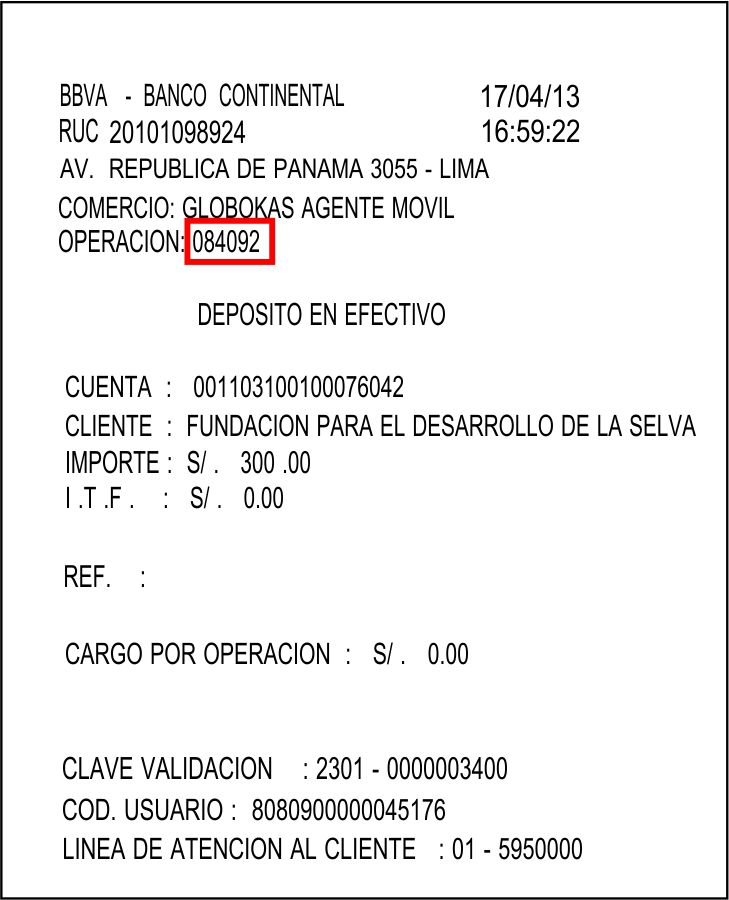
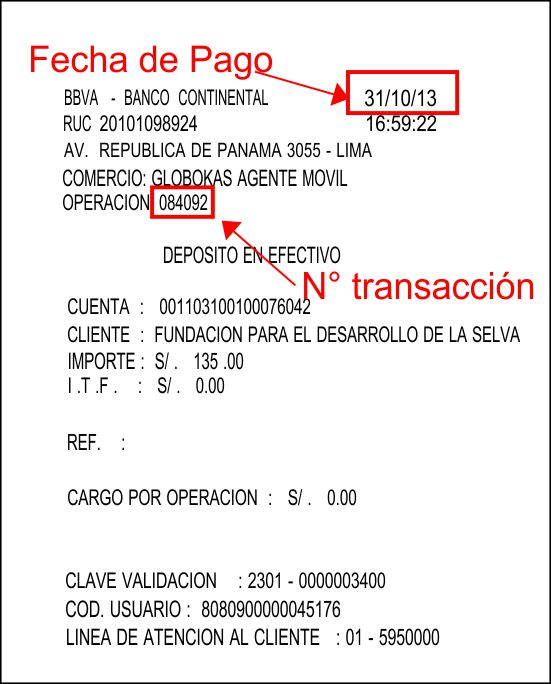
casi terminado

diff --git a/assets/js/inscripcion/inscripcion.js b/assets/js/inscripcion/inscripcion.js
@@ -1,7 +1,8 @@
 !function ($) {
     $(function(){
         $("#iddepartamento").val(0);
-        $("#fecha_deposito").datepicker({dateFormat: 'dd-mm-yy',changeMonth:true,changeYear:true,minDate: new Date('2013','04','01'),maxDate: new Date('2013','07','12')});
+        $("#fecha_deposito").datepicker({dateFormat: 'dd-mm-yy',changeMonth:true,changeYear:true,minDate: new Date('2013','04','01'),
+            maxDate: new Date('2013','07','12'),onSelect: function(date) {$("#idtipo_inscripcion").trigger('change')}});
         $("#id_institucion_group, #loadInstitucion, #loadDni, #loadEmail, #loadNro_operacion, #imgventanilla, #imgcejero_automatico, #imgagentebbva").hide();
         $("#dni").solonumeros().blur(function(){
             if($(this).val().length==8){
@@ -135,7 +136,33 @@
                 $("#id_institucion_group").hide();
             }
         });
-    
+        
+        $("#idtipo_inscripcion").change(function(){
+            var fecha_deposito = $("#fecha_deposito").val();
+            var idtipo_inscripcion = $("#idtipo_inscripcion").val();
+            var monto = "";
+            if($.trim(fecha_deposito)!="" && idtipo_inscripcion!=""){
+                var fecha=fecha_deposito.split("-");
+                if(idtipo_inscripcion=="1"){
+                    switch (fecha[1]){
+                        case '05':monto="95.00" ;break;
+                        case '06':monto="100.00" ;break;
+                        case '07':monto="115.00" ;break;
+                        case '08':monto="125.00" ;break;
+                    }
+                }else{
+                    switch (fecha[1]){
+                        case '05':monto="100.00" ;break;
+                        case '06':monto="115.00" ;break;
+                        case '07':monto="125.00" ;break;
+                        case '08':monto="135.00" ;break;
+                    }
+                }
+            }
+            $("#monto").val(monto);
+        });
+        $("#idtipo_inscripcion").trigger('change');
+        
         $("#registrar").click(function(){
             var bval = true;  
             if($("#loadDni").css('display')=='none'){
@@ -180,7 +207,6 @@
             bval = bval && $( "#tipo_pago" ).combo();
             bval = bval && $( "#fecha_deposito" ).required();
             bval = bval && $( "#nro_operacion" ).required();
-            bval = bval && $( "#monto" ).combo();
             if(bval && $("#loadDni").html()!='Correcto'){
                 bval=false;
                 $("#dni").parents('div[class*=control-group]').removeClass('success').addClass('error');

diff --git a/assets/css/main.css b/assets/css/main.css
@@ -87,6 +87,9 @@ footer{
     width: 88%;
     margin: 0 auto;
 }
+#imgpago{
+    margin-top: 500px;
+}
 .carousel .container {
     position: relative;
     z-index: 9;
@@ -173,6 +176,9 @@ footer{
     }
     .page_slide{
         padding:  5px 10px;
+    }
+    #imgpago{
+        margin-top: 0;
     }
 }
 

diff --git a/application/controllers/inscripcion.php b/application/controllers/inscripcion.php
@@ -114,50 +114,47 @@ class inscripcion extends Main_Controller {
     }
     
     public function guardar(){
-        if(isset($_POST)){
+        if(isset($_POST['email'])){
+            $idmd5 = $_POST['email'].uniqid();
+            $idmd5 = md5( md5( md5($idmd5)));
+            array_push($_POST, $idmd5);
+//            echo '<pre>';print_r($_POST);exit;
             $resultado = $this->inscripcion_model->insertInscripcion($_POST);
-//            print_r($resultado);exit;
-            if($resultado['estado']==1){
-                $inscripcion = $resultado['data'];
-                if($inscripcion->num_rows()>0){
-                    foreach ($inscripcion->result_array() as $f) {
-                        //Obtenemos los datos
-                        $idmd5=$f['idmd5'];
-                        $email=$f['email'];
-                        $usuario=$f['nombres'].' '.$f['apellidos'];
-                        $cuerpo = "<p>El usuario «{$usuario}» del CONEISC (probablemente tú mismo)<br/>
-                                        ha registrado esta dirección e-mail como suya.<br/><br/>
+            if($resultado['estado']){
+                //Obtenemos los datos
+                $email=$_POST['email'];
+                $usuario=$_POST['nombres'].' '.$_POST['apellidos'];
+                $cuerpo = "<p>El usuario «{$usuario}» del CONEISC (probablemente tú mismo)<br/>
+                                ha registrado esta dirección e-mail como suya.<br/><br/>
 
-                                        Para confirmar su registro y que esta dirección e-mail <br/>
-                                        está realmente asociada a esta cuenta, sigue el siguiente enlace:<br/><br/>
+                                Para confirmar su registro y que esta dirección e-mail <br/>
+                                está realmente asociada a esta cuenta, sigue el siguiente enlace:<br/><br/>
 
-                                        <a href='http://{$_SERVER['HTTP_HOST']}/inscripcion/confirmarEmail/$idmd5' target='_blank'>http://{$_SERVER['HTTP_HOST']}/inscripcion/confirmarEmail/$idmd5</a>  <br/><br/>
-                                        <br/>   
-                                        Atentamente.
-                                        <br/>
-                                        XXI CONEISC
-                                        <br/>
-                                        Tarapoto 2013 
-                                    </p>";
-                        //Cargamos la librería
-                        $this->load->library('email');
-                        //Configuramos 
-                        $config['useragent'] = 'CONEISC';
-                        $config['mailtype'] = 'html';
-                        $this->email->initialize($config);
-                        //llenamos datos
-                        $this->email->from('WWW.CONEISC.PE', 'CONEISC');
-                        $this->email->to($email);
-                        $this->email->subject('Confirmación de la dirección de e-mail registrada en Coneisc.pe');
-                        $this->email->message($cuerpo);
-                        if($this->email->send()){
-                            $this->mensaje("Registro Coneisc","Por favor revise su correo eléctronico para confirmar su registro");
-                        }else if($this->email->send()){
-                            $this->mensaje("Registro Coneisc","Por favor revise su correo eléctronico para confirmar su registro");
-                        }else{
-                            $this->mensaje("Error Envio de Email","Por favor comuníquese con los organizadores informando de su error.");
-                        }
-                    }
+                                <a href='http://{$_SERVER['HTTP_HOST']}/inscripcion/confirmarEmail/$idmd5' target='_blank'>http://{$_SERVER['HTTP_HOST']}/inscripcion/confirmarEmail/$idmd5</a>  <br/><br/>
+                                <br/>   
+                                Atentamente.
+                                <br/>
+                                XXI CONEISC
+                                <br/>
+                                Tarapoto 2013 
+                            </p>";
+                //Cargamos la librería
+                $this->load->library('email');
+                //Configuramos 
+                $config['useragent'] = 'CONEISC';
+                $config['mailtype'] = 'html';
+                $this->email->initialize($config);
+                //llenamos datos
+                $this->email->from('WWW.CONEISC.PE', 'CONEISC');
+                $this->email->to($email);
+                $this->email->subject('Confirmación de la dirección de e-mail registrada en Coneisc.pe');
+                $this->email->message($cuerpo);
+                if($this->email->send()){
+                    $this->mensaje("Registro Coneisc","Por favor revise su correo eléctronico para confirmar su registro");
+                }else if($this->email->send()){
+                    $this->mensaje("Registro Coneisc","Por favor revise su correo eléctronico para confirmar su registro");
+                }else{
+                    $this->mensaje("Error Envio de Email","Por favor comuníquese con los organizadores informando de su error.");
                 }
             }else{
                 $this->mensaje("Error de Registro",$resultado['msg']);

diff --git a/application/views/web/inscripcion/nuevo.php b/application/views/web/inscripcion/nuevo.php
@@ -136,22 +136,13 @@
                                 <div class="control-group">
                                     <label for="nro_operacion" class="control-label">N° Transacción:</label>
                                     <div class="controls">
-                                        <input type="text" id="nro_operacion" name="nro_operacion" class="span10"/>
+                                        <input type="text" id="nro_operacion" name="nro_operacion" class="span10" maxlength="10"/>
                                         <div id="loadNro_operacion" style="max-width:240px;min-height: 20px; margin: 0;"></div>
                                     </div>
                                 </div>
                                 <div class="control-group">
                                     <label for="monto" class="control-label">Monto:</label>
-                                    <div class="controls">
-                                        <select name="monto" id="monto" class="span10">
-                                            <option value=""> - - Seleccione - -</option>
-                                            <option value="95">S/. 95.00</option>
-                                            <option value="100">S/. 100.00</option>
-                                            <option value="115">S/. 115.00</option>
-                                            <option value="125">S/. 125.00</option>
-                                            <option value="135">S/. 135.00</option>
-                                        </select>
-                                    </div>
+                                    <div class="controls"><input type="text" id="monto" name="monto" class="span10" readonly="readonly"/></div>
                                 </div>
                             </fieldset>
                             <div class="form-actions">
@@ -160,8 +151,6 @@
                                     <a class="cancel btn" href="<?php echo base_url() ?>inscripcion">Cancelar</a>
                                 </div>
                             </div>
-                            <input id="id_token" type="hidden" class=" " value="2815c719c46e47c66" name="token" />
-                            <input type="hidden" name="plan" value="5_users">
                         </div>
                         </form>
                     </div> 
@@ -193,7 +182,7 @@
                        <?php if (isset($imagen)){ ?>
                         <div style="width: 180px;height: 180px;margin: 0 auto" class="img-polaroid"><?php echo $imagen ?></div>
                         <?php } ?>
-                        <div>
+                        <div id="imgpago">
                             <img src="<?php echo base_url()?>assets/img/vouchers/ventanilla.jpg" id="imgventanilla"/>
                             <img src="<?php echo base_url()?>assets/img/vouchers/cejero_automatico.jpg" id="imgcejero_automatico"/>
                             <img src="<?php echo base_url()?>assets/img/vouchers/agentebbva.jpg" id="imgagentebbva"/>

diff --git a/application/models/inscripcion_model.php b/application/models/inscripcion_model.php
@@ -12,7 +12,7 @@ class inscripcion_model extends CI_Model{
         if (isset($datos['idtipo_inscripcion'])) {$idtipo_inscripcion = $datos["idtipo_inscripcion"];} else {$idtipo_inscripcion = null;}
         if (isset($datos['idinstitucion'])) {$idinstitucion = $datos["idinstitucion"];} else {$idinstitucion = null;}
         if (isset($datos['institucion'])) {$institucion = $datos["institucion"];} else {$institucion = null;}
-        if (isset($datos['idempleado'])) {$idempleado = $datos["idempleado"];} else {$idempleado = null;}
+        if (isset($datos['idusuario'])) {$idusuario = $datos["idusuario"];} else {$idusuario = null;}
         //Convertimos a mayúsculas nombres y apellidos
         $search  = array('á', 'é', 'í', 'ó', 'ú', 'ñ');
         $replace = array('Á', 'É', 'Í', 'Ó', 'Ú', 'Ñ');
@@ -33,17 +33,10 @@ class inscripcion_model extends CI_Model{
         $telefono = $datos["telefono"];
         $email = $datos["email"];
         $estado = 0;
+        $idmd5 = $datos[0];
         
         //transaccion para guardar
         $this->db->trans_begin();
-        //ultimo ID
-        $this->db->select_max('idinscripcion');
-        $query = $this->db->get('inscripcion');
-        foreach ($query->result_array() as $value) {
-            $idMax = $value['idinscripcion']+1;
-        }
-        //idmd5
-        $idMD5 = md5(md5(md5($idMax)));
         //validamos los datos unicos
         $this->db->where('dni',$dni);
         $this->db->or_where('email',$email);
@@ -56,12 +49,12 @@ class inscripcion_model extends CI_Model{
             $msg = 'Error de duplicidad de datos';
         }else{
             $this->db->insert('inscripcion', array(
-                'idinscripcion'=>$idMax,
-                'idmd5'=>$idMD5,
+                'idinscripcion'=>null,
+                'idmd5'=>$idmd5,
                 'idtipo_inscripcion'=>$idtipo_inscripcion,
                 'idinstitucion'=>$idinstitucion,
                 'institucion'=>$institucion,
-                'idempleado'=>$idempleado,
+                'idusuario'=>$idusuario,
                 'nombres'=>$nombres,
                 'apellidos'=>$apellidos,
                 'dni'=>$dni,
@@ -76,8 +69,6 @@ class inscripcion_model extends CI_Model{
                 'email'=>$email,
                 'estado'=>$estado
             ));
-            $this->db->where('idinscripcion',$idMax);
-            $data = $this->db->get('inscripcion');
         }
         
         if ($error || $this->db->trans_status() === FALSE){
@@ -88,7 +79,7 @@ class inscripcion_model extends CI_Model{
             $return = array ('estado'=>false,'msg'=>$msg);
         }else{
             $this->db->trans_commit();
-            $return = array ('estado'=>true,'data'=>$data);
+            $return = array ('estado'=>true);
         }
         return $return;
     }

diff --git a/application/libraries/Fbconnect.php b/application/libraries/Fbconnect.php
@@ -42,18 +42,15 @@ class Fbconnect extends Facebook {
         foreach ($album['data'] as $album) {
 //            $albumes .= '<li>Álbum: ' . $album['name'] . '</li>';
 
-            $albumes .= "<div style='display:inline-block;padding:10px;width:220px;height:230px'> ";
+            $albumes .= "<div style='display:inline-block;padding:10px;width:140px;height:150px;vertical-align:top'> ";
 
             //recuperar fotos por albums
             $photo = $this->api("/{$album['id']}/photos");
-            $i = 0;
             foreach ($photo['data'] as $photo) {
-                if($i == 0){
-                    $albumes .= "<a href='". base_url() ."galeria/album/".$album['id']."'><img src='{$photo['picture']}' class='img-polaroid' style='height:200px;width:200px' /></a>";
-                    $i = 1;
-                }
+                $albumes .= "<a href='". base_url() ."galeria/album/".$album['id']."'><img src='{$photo['picture']}' class='img-polaroid' style='height:120px;width:120px' /></a>";
+                break;
             }
-            $albumes .= '<br/>Álbum: ' . $album['name'];
+            $albumes .= '<br/>' . $album['name'];
             $albumes .= '</div>';
         }
 //        $albumes .= '</ul>';
@@ -72,13 +69,15 @@ class Fbconnect extends Facebook {
                 $albumes .= '<h4>Álbum: ' . $album['name'] . '</h4><br/>';
                 //recuperar fotos por albums
                 $photo = $this->api("/{$album['id']}/photos");
-
+                
+                $albumes .= '<div  id="gallery">';
                 foreach ($photo['data'] as $photo) {
-                        $albumes .= "<div style='display:inline-block;padding:10px;width:220px;height:230px'> ";
-                        $albumes .= "<a href='". base_url() ."galeria/album/".$album['id']."'><img src='{$photo['picture']}' class='img-polaroid' style='height:200px;width:200px' /></a>";
-                        $albumes .= '</div>';
-                        
+                        $albumes .= "<div style='display:inline-block;padding:10px;width:140px;height:150px'>";
+                        $albumes .= "<a rel='sexylightbox[kmx]' href='{$photo['source']}'>";
+                        $albumes .= "<img src='{$photo['picture']}' class='img-polaroid' style='height:120px;width:120px' />";
+                        $albumes .= "</a></div>";
                 }
+                $albumes .= '</div>';
             }
         }
 //        $albumes .= '</ul>';

diff --git a/application/views/web/inscripcion/index.php b/application/views/web/inscripcion/index.php
@@ -56,7 +56,7 @@
         <div class="row-fluid">
             <h2>Inscripción</h2>
             <div class="span8">
-                <h3>Costos</h3>
+                <h3>Cronograma de Inscripcion</h3>
                 <div style="text-align:center">
                     <div class="image_wrapper">
                         <img src="<?php echo base_url() ?>assets/img/costo inscripcion.png" class="img-polaroid" alt="Costo de Inscripcion" />
@@ -64,7 +64,7 @@
                 </div>
             </div>
             <div class="span3">
-                <h4><a href="#myModal" role="button" data-toggle="modal">Leer Pasos de Inscripción</a></h4>
+                <h4><a href="#myModal" role="button" data-toggle="modal" class="btn btn-success">Leer Pasos de Inscripción</a></h4>
                 <h3>Consulte o Inscríbase</h3>
                 
                 <!-- Modal -->
@@ -76,8 +76,8 @@
                     <div class="modal-body text-justify">
                         <h4>Instrucciones para Inscripción</h4>
                         <ol>
-                            <li>Hacer el pago respectivo según el Cronograma de Inscripción.</li>
-                            <li>Al momento de depositar solicitar al cajero que registre su Nombre o DNI.</li>
+                            <li>Hacer el pago respectivo según el Cronograma de Inscripción en el banco <strong>BBVA Continental</strong> al número de cuenta: <strong>0011-0310-0100076042-09</strong> de la Fundación Para el Desarrollo de la Selva (FUDES).</li>
+                            <li>Al momento de depositar, solicitar al cajero que registre su Nombre o DNI.</li>
                             <li>Ingrese a <a href="<?php echo base_url() ?>inscripcion/">www.coneisc.pe/inscripcion</a>.</li>
                             <li>Ingrese su correo electrónico en "Consulte o Inscribase". Si ya esta registrado se mostrará el estado de su inscripción 
                                 o de lo contrario lo llevará al formulario de inscripción.</li>

diff --git a/application/controllers/galeria.php b/application/controllers/galeria.php
@@ -1,7 +1,6 @@
 <?php
 
-if (!defined('BASEPATH'))
-    die();
+if (!defined('BASEPATH'))die();
 
 class galeria extends Main_Controller {
 

diff --git a/application/controllers/web.php b/application/controllers/web.php
@@ -1,7 +1,6 @@
 <?php
 
-if (!defined('BASEPATH'))
-    die();
+if (!defined('BASEPATH'))die();
 
 class web extends Main_Controller {
 
